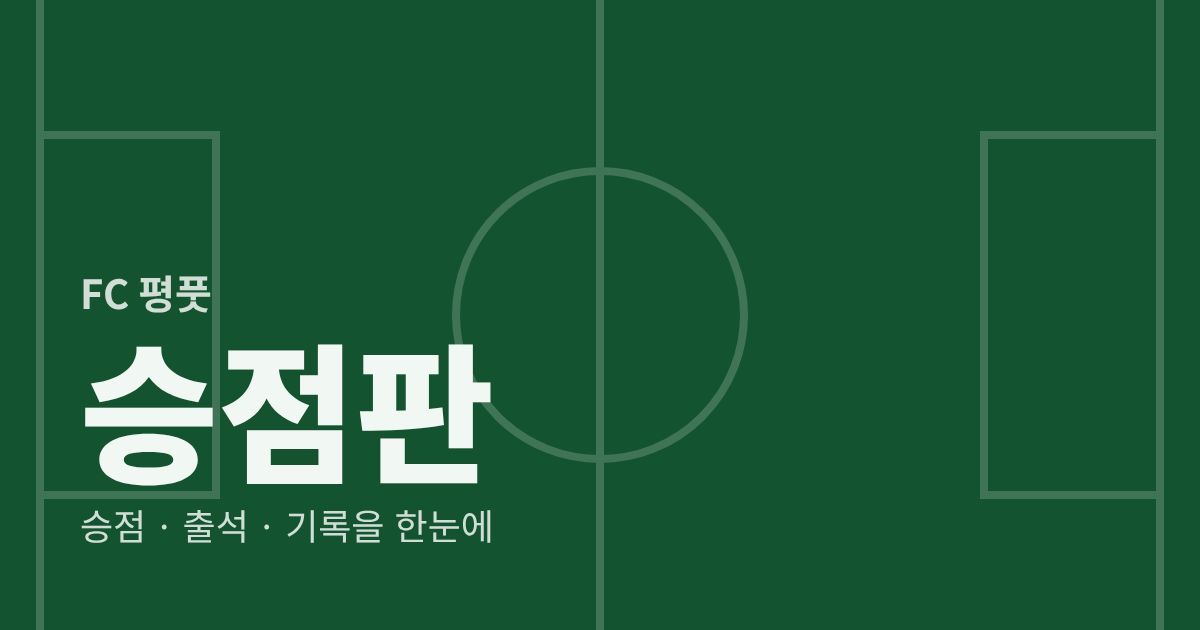
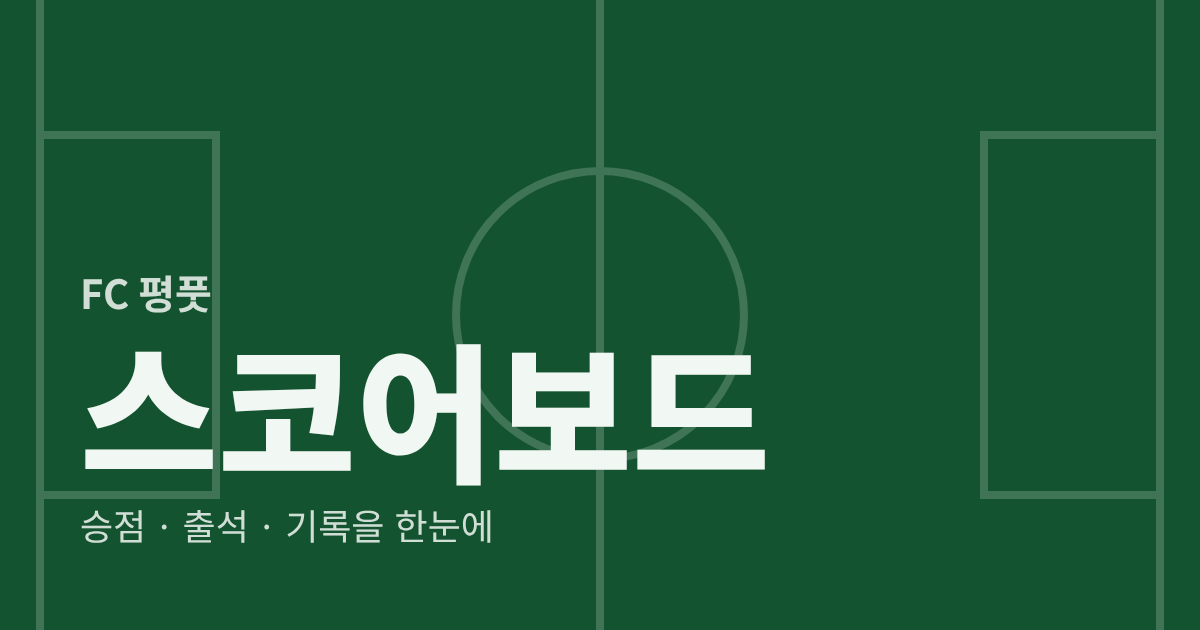
Add files via upload

Changed region(s): [[0.0617, 0.5429, 0.6475, 0.7841]]

diff --git a/index.html b/index.html
@@ -4,10 +4,10 @@
 <meta charset="utf-8">
 <meta name="viewport" content="width=device-width,initial-scale=1,viewport-fit=cover">
 <meta name="theme-color" content="#14532F">
-<title>FC 평풋 승점판</title>
+<title>FC 평풋 스코어보드</title>
 <meta name="description" content="FC 평풋 승점 · 출석 · 기록을 한눈에">
 <meta property="og:type" content="website">
-<meta property="og:title" content="FC 평풋 승점판">
+<meta property="og:title" content="FC 평풋 스코어보드">
 <meta property="og:description" content="승점 · 출석 · 기록을 한눈에">
 <meta property="og:url" content="https://minkun-admin.github.io/fcpp/">
 <meta property="og:image" content="https://minkun-admin.github.io/fcpp/og.png">
@@ -252,7 +252,8 @@ label.fl { display: block; margin-bottom: 0.25rem; font-size: 0.82rem; font-weig
 .att .dh .A { color: var(--teamA-ink); }
 .att .dh .B { color: var(--teamB-ink); }
 .att .dh .D { color: var(--draw); }
-.att .rate { color: var(--muted); font-variant-numeric: tabular-nums; }
+.att .rate { color: var(--ink); font-weight: 700; font-variant-numeric: tabular-nums; }
+.att thead th:nth-child(2) { color: var(--ink); font-weight: 700; }
 .ch { display: inline-grid; place-items: center; width: 1.8rem; height: 1.8rem; border-radius: 6px; font-weight: 700; font-variant-numeric: tabular-nums; }
 .ch.A { background: var(--teamA); color: var(--on-teamA); }
 .ch.B { background: var(--teamB); color: var(--on-teamB); }
@@ -440,16 +441,16 @@ select.vsel { width: 100%; box-sizing: border-box; min-height: 44px; padding: 0.
     <div class="top-row">
       <div>
         <p class="eyebrow" id="clubName">FC 평풋</p>
-        <h1>승점판</h1>
+        <h1>스코어보드</h1>
       </div>    </div>  </div>
 </header>
 
 <nav class="tabs" aria-label="화면 선택">
   <div class="wrap tabs-in" role="tablist">
-    <button class="tab" role="tab" id="tab-rank" data-act="tab" data-tab="rank" aria-selected="true" type="button">순위</button>
-    <button class="tab" role="tab" id="tab-matches" data-act="tab" data-tab="matches" aria-selected="false" type="button">경기</button>
-    <button class="tab" role="tab" id="tab-attendance" data-act="tab" data-tab="attendance" aria-selected="false" type="button">출석부</button>
+    <button class="tab" role="tab" id="tab-matches" data-act="tab" data-tab="matches" aria-selected="true" type="button">경기</button>
+    <button class="tab" role="tab" id="tab-rank" data-act="tab" data-tab="rank" aria-selected="false" type="button">승점</button>
     <button class="tab" role="tab" id="tab-records" data-act="tab" data-tab="records" aria-selected="false" type="button">개인기록</button>
+    <button class="tab" role="tab" id="tab-attendance" data-act="tab" data-tab="attendance" aria-selected="false" type="button">출석부</button>
     <button class="tab" role="tab" id="tab-vote" data-act="tab" data-tab="vote" aria-selected="false" type="button">MOM투표</button>
     <button class="tab" role="tab" id="tab-members" data-act="tab" data-tab="members" aria-selected="false" type="button">멤버</button>
     <button class="tab" role="tab" id="tab-admin" data-act="tab" data-tab="admin" aria-selected="false" type="button" hidden>관리자</button>
@@ -457,9 +458,9 @@ select.vsel { width: 100%; box-sizing: border-box; min-height: 44px; padding: 0.
 </nav>
 
 <main class="wrap">
-  <section id="panel-rank" role="tabpanel" aria-labelledby="tab-rank"><div id="rankBody"></div></section>
+  <section id="panel-rank" role="tabpanel" aria-labelledby="tab-rank" hidden><div id="rankBody"></div></section>
 
-  <section id="panel-matches" role="tabpanel" aria-labelledby="tab-matches" hidden>
+  <section id="panel-matches" role="tabpanel" aria-labelledby="tab-matches">
     <div class="sect-head"><h2>경기 기록</h2><p id="matchesHint">최근 경기부터 보여줘요. 수정하면 순위와 출석에 바로 반영돼요.</p></div>
     <div id="matchBody"></div>
   </section>
@@ -582,7 +583,7 @@ select.vsel { width: 100%; box-sizing: border-box; min-height: 44px; padding: 0.
     });
   };
   var DOW = ["일", "월", "화", "수", "목", "금", "토"];
-  var TABS = ["rank", "matches", "attendance", "records", "vote", "members", "admin"];
+  var TABS = ["matches", "rank", "records", "attendance", "vote", "members", "admin"];
   var DEFAULT_RULES = { name: "FC 평풋", win: 3, draw: 1, loss: 0 };
   var TEAM = { A: "노랑팀", B: "주황팀" };
 
@@ -590,7 +591,7 @@ select.vsel { width: 100%; box-sizing: border-box; min-height: 44px; padding: 0.
     db: null, auth: null, noDb: false, readOnly: true, canKnown: true,
     members: [], matches: [], rules: Object.assign({}, DEFAULT_RULES),
     loaded: { m: false, x: false, r: false },
-    tab: "rank", sheet: null, pendingMembers: false, attScrolled: false,
+    tab: "matches", sheet: null, pendingMembers: false, attScrolled: false,
     admin: { date: "", outcomes: {}, teams: {}, existing: null, dirty: false }
   };
 
@@ -706,7 +707,7 @@ select.vsel { width: 100%; box-sizing: border-box; min-height: 44px; padding: 0.
     }
     html += '<div class="sect-head"><h2>누적 승점</h2><p>이번 시즌 승점 레이스!! 동점이면 출석이 많은 순서입니다.</p></div>';
     if (!c.ms.length) {
-      html += emptyBlock("아직 경기 기록이 없어요", "첫 경기를 기록하면 순위가 만들어져요.");
+      html += emptyBlock("아직 경기 기록이 없어요", "첫 경기를 기록하면 승점 순위가 만들어져요.");
     }
     html += '<ol class="board">' + c.rows.map(function (r) {
       var lead = c.ms.length && r.rank === 1 && r.pts > 0;
@@ -759,7 +760,7 @@ select.vsel { width: 100%; box-sizing: border-box; min-height: 44px; padding: 0.
     }).join("") + "</tr>";
     var body = rows.map(function (r) {
       var pct = ms.length ? Math.round(r.att / ms.length * 100) : 0;
-      return '<tr><th class="c1" scope="row">' + esc(r.name) + '</th><td class="rate">' + r.att + "/" + ms.length + " · " + pct + "%</td>" + ms.map(function (m) {
+      return '<tr><th class="c1" scope="row">' + esc(r.name) + '</th><td class="rate">' + pct + "% · " + r.att + "/" + ms.length + "</td>" + ms.map(function (m) {
         var o = outcome(m, r.id);
         if (!o) return '<td><span class="ch x" aria-label="결석">–</span></td>';
         var p = o === "W" ? num(S.rules.win) : o === "D" ? num(S.rules.draw) : num(S.rules.loss);
@@ -770,8 +771,7 @@ select.vsel { width: 100%; box-sizing: border-box; min-height: 44px; padding: 0.
         return '<td><span class="ch ' + cls + '" aria-label="' + who + " " + fmtN(p) + '점">' + fmtN(p) + "</span></td>";
       }).join("") + "</tr>";
     }).join("");
-    box.innerHTML = '<div class="scroll" id="attScroll"><table class="att"><thead>' + head + "</thead><tbody>" + body + "</tbody></table></div>" +
-      '<p class="legend"><span><span class="ch A">3</span> 노랑팀</span><span><span class="ch B">3</span> 주황팀</span><span><span class="ch W">3</span> 승(직접 입력)</span><span><span class="ch L">0</span> 패(직접 입력)</span><span><span class="ch x">–</span> 결석</span></p>';
+    box.innerHTML = '<div class="scroll" id="attScroll"><table class="att"><thead>' + head + "</thead><tbody>" + body + "</tbody></table></div>";
     if (S.tab === "attendance" && !S.attScrolled) { var sc = $("#attScroll"); sc.scrollLeft = sc.scrollWidth; S.attScrolled = true; }
   }
 
@@ -897,14 +897,14 @@ select.vsel { width: 100%; box-sizing: border-box; min-height: 44px; padding: 0.
   function render() {
     document.documentElement.classList.toggle("ro", S.readOnly);
     $("#tab-admin").hidden = S.readOnly;
-    if (S.readOnly && S.tab === "admin") setTab("rank");
+    if (S.readOnly && S.tab === "admin") setTab("matches");
     renderHeader(); renderRank(); renderMatches(); renderAtt(); renderRecords(); renderMembers(); renderAdmin(false); syncSettings(); syncAuthUi(); syncShare(); renderVote();
   }
 
   /* ---------- tabs ---------- */
   function setTab(t, fromHash) {
-    if (TABS.indexOf(t) < 0) t = "rank";
-    if (t === "admin" && S.readOnly) t = "rank";
+    if (TABS.indexOf(t) < 0) t = "matches";
+    if (t === "admin" && S.readOnly) t = "matches";
     S.tab = t;
     TABS.forEach(function (k) {
       $("#panel-" + k).hidden = k !== t;
